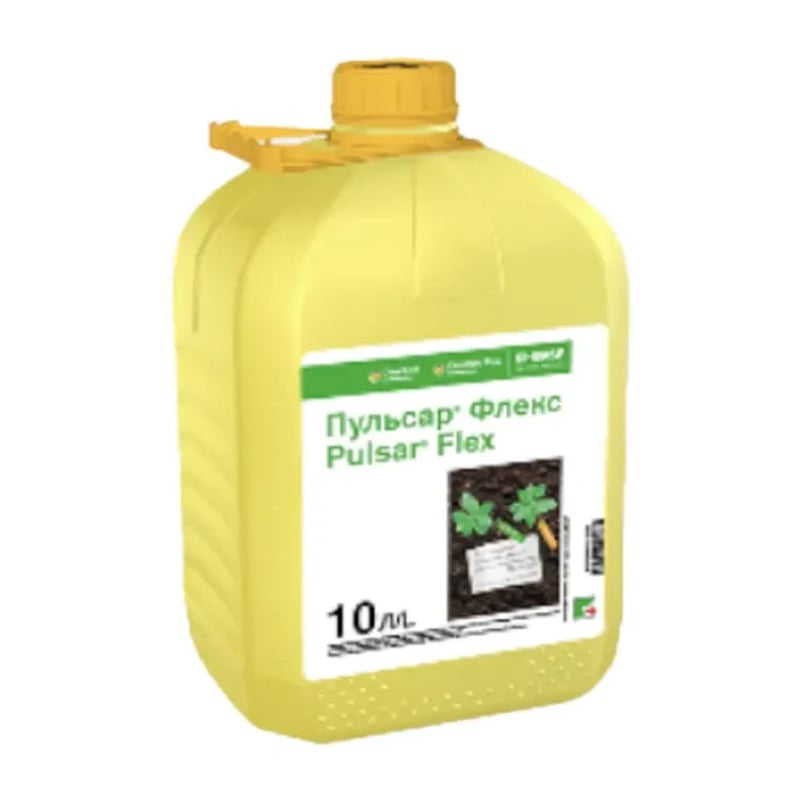
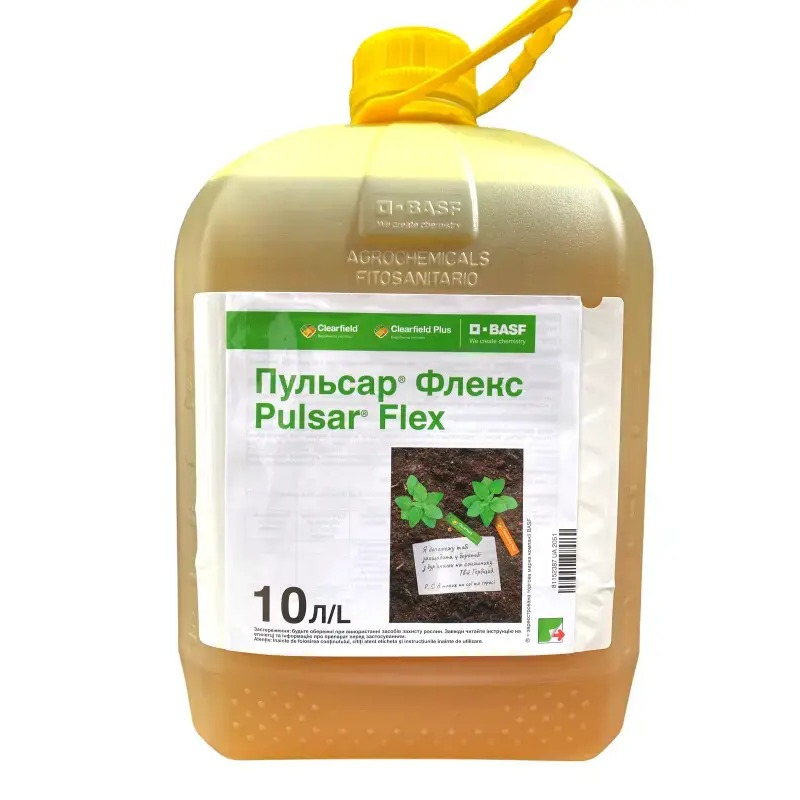
fix(catalog): rename Пульсар 40 → Пульсар Флекс + better photo
Catalog entry under slug pulsar-40-basf actually maps to Пульсар Флекс
in the supplier's price list (per _PRICE_IMPORT_RULES.md). Aligning
display name and active ingredient (Імазамокс 25 г/л) with reality;
slug kept to preserve URL/SEO.

diff --git a/lib/products.ts b/lib/products.ts
@@ -108,7 +108,7 @@ export const products: Product[] = [
   { slug: "merlin-fleks-480-sc-baier", name: "Мерлін Флекс 480 SC", nameRu: "Мерлин Флекс 480 SC", manufacturer: "Байер", tier: "original", group: "Гербіцид", groupSlug: "herbitsydy", activeIngredient: "Ізоксафлутол, 480 г/л", activeIngredientRu: "Изоксафлутол, 480 г/л", concentration: "", packaging: "1 л", rate: "0,33–0,42 л/га", priceVat: 22.0, priceCash: 20.17, unit: "л", currency: "USD", priceOnRequest: true, cultures: ["kukurudza"], stage: ["strakhovyi"], image: "/products/merlin-fleks-480-sc-baier.jpg" },
   { slug: "pryma-korteva", name: "Прима", nameRu: "Прима", manufacturer: "Кортева", tier: "original", group: "Гербіцид", groupSlug: "herbitsydy", activeIngredient: "Флорасулам 6,25 г/л + 2,4-Д ефір 452 г/л", activeIngredientRu: "Флорасулам 6,25 г/л + 2,4-Д ефир 452 г/л", concentration: "", packaging: "5 л", rate: "0,4–0,6 л/га", priceVat: 12.7, priceCash: 11.64, unit: "л", currency: "USD", cultures: ["kukurudza", "ozyma-pshenytsa", "yari-zernovi"], stage: ["strakhovyi", "herbicid-vesna", "herbicid"], image: "/products/pryma-korteva.jpg" },
   { slug: "pryma-forte-korteva", name: "Прима Форте", nameRu: "Прима Форте", manufacturer: "Кортева", tier: "original", group: "Гербіцид", groupSlug: "herbitsydy", activeIngredient: "Флорасулам 5 г/л + амінопіралід 10 г/л + 2,4-Д ефір 180 г/л", activeIngredientRu: "Флорасулам 5 г/л + аминопиралид 10 г/л + 2,4-Д ефир 180 г/л", concentration: "", packaging: "5 л", rate: "0,4–0,6 л/га", priceVat: 18, priceCash: 16.5, unit: "л", currency: "USD", cultures: ["kukurudza", "ozyma-pshenytsa", "yari-zernovi"], stage: ["strakhovyi", "herbicid-vesna", "herbicid"], image: "/products/pryma-forte-korteva.jpg" },
-  { slug: "pulsar-40-basf", name: "Пульсар 40", nameRu: "Пульсар 40", manufacturer: "Басф", tier: "original", group: "Гербіцид", groupSlug: "herbitsydy", activeIngredient: "Імазамокс, 40 г/л", activeIngredientRu: "Имазамокс, 40 г/л", concentration: "", packaging: "10 л", rate: "1,0–1,2 л/га", priceVat: 20.92, priceCash: 19.18, unit: "л", currency: "EUR", cultures: ["horoh", "sonyashnyk", "soya"], stage: ["strakhovyi"], technology: ["clearfield"], image: "/products/pulsar-40-basf.jpg" },
+  { slug: "pulsar-40-basf", name: "Пульсар Флекс", nameRu: "Пульсар Флекс", manufacturer: "Басф", tier: "original", group: "Гербіцид", groupSlug: "herbitsydy", activeIngredient: "Імазамокс, 25 г/л", activeIngredientRu: "Имазамокс, 25 г/л", concentration: "", packaging: "10 л", rate: "1,0–1,2 л/га", priceVat: 20.92, priceCash: 19.18, unit: "л", currency: "EUR", cultures: ["horoh", "sonyashnyk", "soya"], stage: ["strakhovyi"], technology: ["clearfield"], image: "/products/pulsar-40-basf.jpg" },
   { slug: "raundap-maks-monsanto", name: "Раундап Макс", nameRu: "Раундап Макс", manufacturer: "Monsanto", tier: "original", group: "Гербіцид", groupSlug: "herbitsydy", activeIngredient: "Калійна сіль гліфосату, 540 г/л", activeIngredientRu: "Калийна силь глифосату, 540 г/л", concentration: "", packaging: "20 л", rate: "1,5–4,0 л/га", priceVat: 8.32, priceCash: 7.63, unit: "л", currency: "USD", cultures: ["horoh", "kartoplya", "kukurudza", "ozyma-pshenytsa", "ripak-ozymyi", "ripak-yaryi", "sonyashnyk", "sorgo", "soya", "yari-zernovi"], stage: ["gruntovyi", "herbicid", "herbicid-vesna", "desikatsiya"], image: "/products/raundap-maks-monsanto.jpg" },
   { slug: "salsa-korteva", name: "Сальса", nameRu: "Сальса", manufacturer: "Кортева", tier: "original", group: "Гербіцид", groupSlug: "herbitsydy", activeIngredient: "Етаметсульфурон-метил, 750 г/кг", activeIngredientRu: "Етаметсульфурон-метил, 750 г/кг", concentration: "", packaging: "0,25 кг", rate: "20–25 г/га", priceVat: 672.7, priceCash: 616.64, unit: "кг", currency: "USD", cultures: ["kukurudza", "ozyma-pshenytsa", "ripak-ozymyi", "ripak-yaryi", "yari-zernovi"], stage: ["gruntovyi", "herbicid-vesna", "herbicid"], image: "/products/salsa-korteva.jpg" },
   { slug: "selekt-fms", name: "Селект", nameRu: "Селект", manufacturer: "ФМС", tier: "original", group: "Гербіцид", groupSlug: "herbitsydy", activeIngredient: "Клетодим, 120 г/л", activeIngredientRu: "Клетодим, 120 г/л", concentration: "", packaging: "5 л", rate: "0,4–1,8 л/га", priceVat: 23.18, priceCash: 21.25, unit: "л", currency: "USD", cultures: ["horoh", "kartoplya", "ripak-ozymyi", "ripak-yaryi", "sonyashnyk", "sorgo", "soya"], stage: ["strakhovyi", "herbicid", "gruntovyi", "graminitsyd"], image: "/products/selekt-fms.jpg" },
